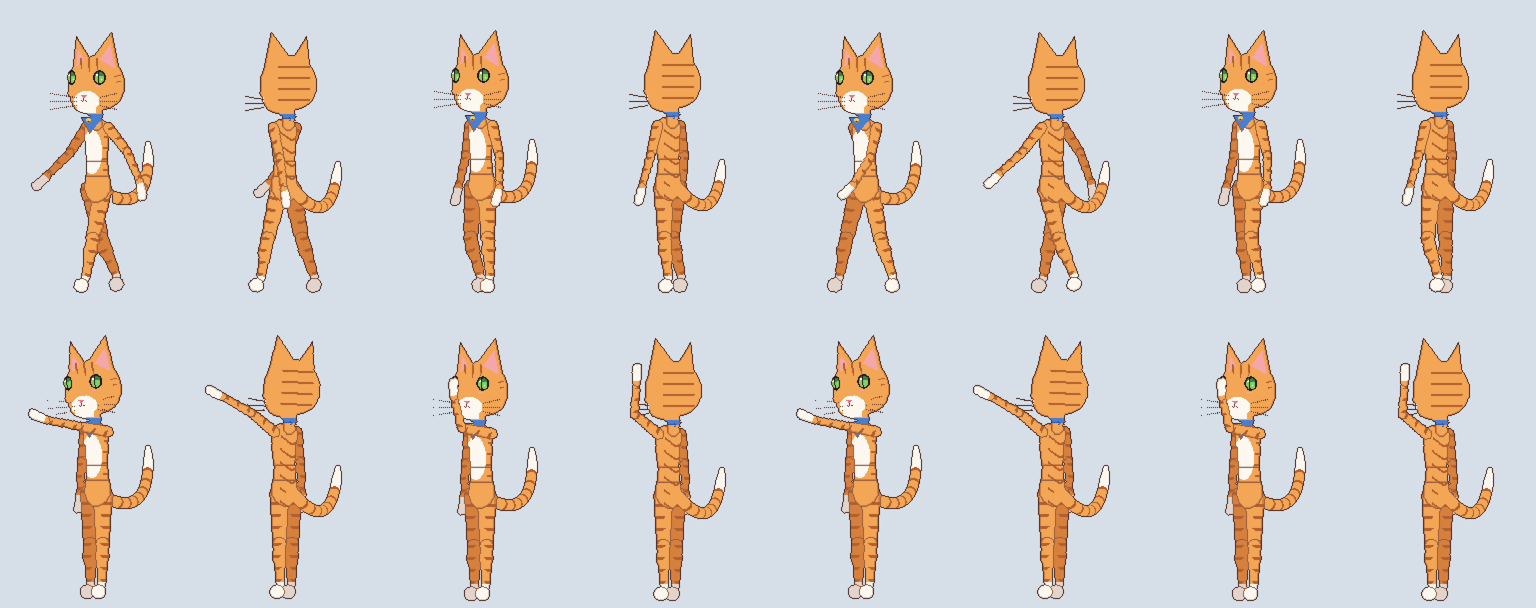
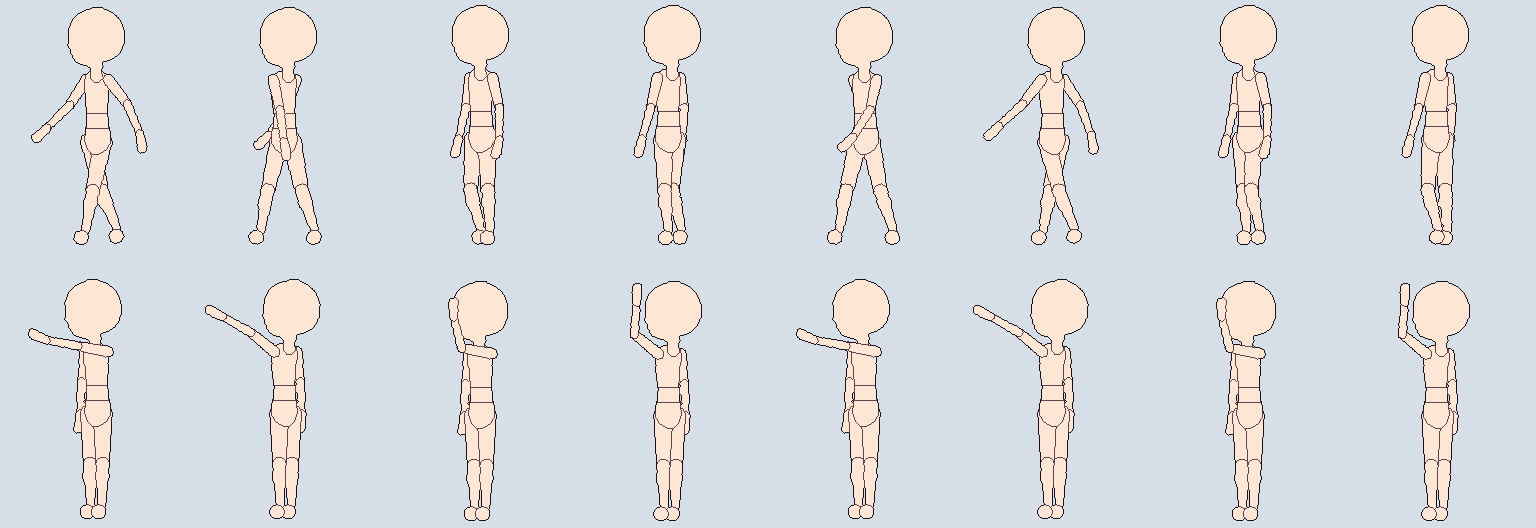
Replace example-character images in the 3/4 patch notes with the mannequin
Claude-Session: https://claude.ai/code/session_018fGtUP1q1wdMrCxEohVe7T

diff --git a/doc/patchnotes/2026-09-25-three-quarter-draft.md b/doc/patchnotes/2026-09-25-three-quarter-draft.md
@@ -14,7 +14,7 @@
 
 ![키](images/tq-draft-02-keys.png)
 
-이 규칙(`ThreeQuarterDraft`)으로 만든 예시 — 고양이 캐릭터, 위: 걷기, 아래: 손 흔들기. 앞 반측면·뒤 반측면을 번갈아 배치. 걷기는 다리가 비스듬히 앞뒤로, 팔은 측면처럼 흔든다. 손 흔들기는 측면처럼 가까운 팔로 앞쪽을 향해 흔드는데, 앞 반측면에서는 손이 얼굴 앞을 지나는 프레임이 있어 손볼 수 있다 (초안이므로).
+이 규칙(`ThreeQuarterDraft`)으로 만든 예시 — 2x 마네킹, 위: 걷기, 아래: 손 흔들기. 앞 반측면·뒤 반측면을 번갈아 배치. 걷기는 다리가 비스듬히 앞뒤로, 팔은 측면처럼 흔든다. 손 흔들기는 측면처럼 가까운 팔로 앞쪽을 향해 흔드는데, 앞 반측면에서는 손이 얼굴 앞을 지나는 프레임이 있어 손볼 수 있다 (초안이므로).
 
 ![예시](images/tq-draft-03-example.png)
 

diff --git a/doc/patchnotes/2026-09-25-three-quarter-export.md b/doc/patchnotes/2026-09-25-three-quarter-export.md
@@ -10,7 +10,7 @@
 
 ![메뉴](images/tq-export-01-menu.png)
 
-8방향 통합 시트의 첫 동작(대기) 부분 — 동작마다 기존 4줄(front·left·right·back) 뒤에 반측면 4줄이 붙는다. 예시 캐릭터(견습 마녀)를 앱의 일괄 내보내기(`--directions 8`)로 뽑은 결과.
+8방향 통합 시트의 첫 동작(대기) 부분 — 동작마다 기존 4줄(front·left·right·back) 뒤에 반측면 4줄이 붙는다. 2x 마네킹을 앱의 일괄 내보내기(`--directions 8`)로 뽑은 결과 (각 줄 앞 4프레임).
 
 ![시트](images/tq-export-02-sheet.png)
 
